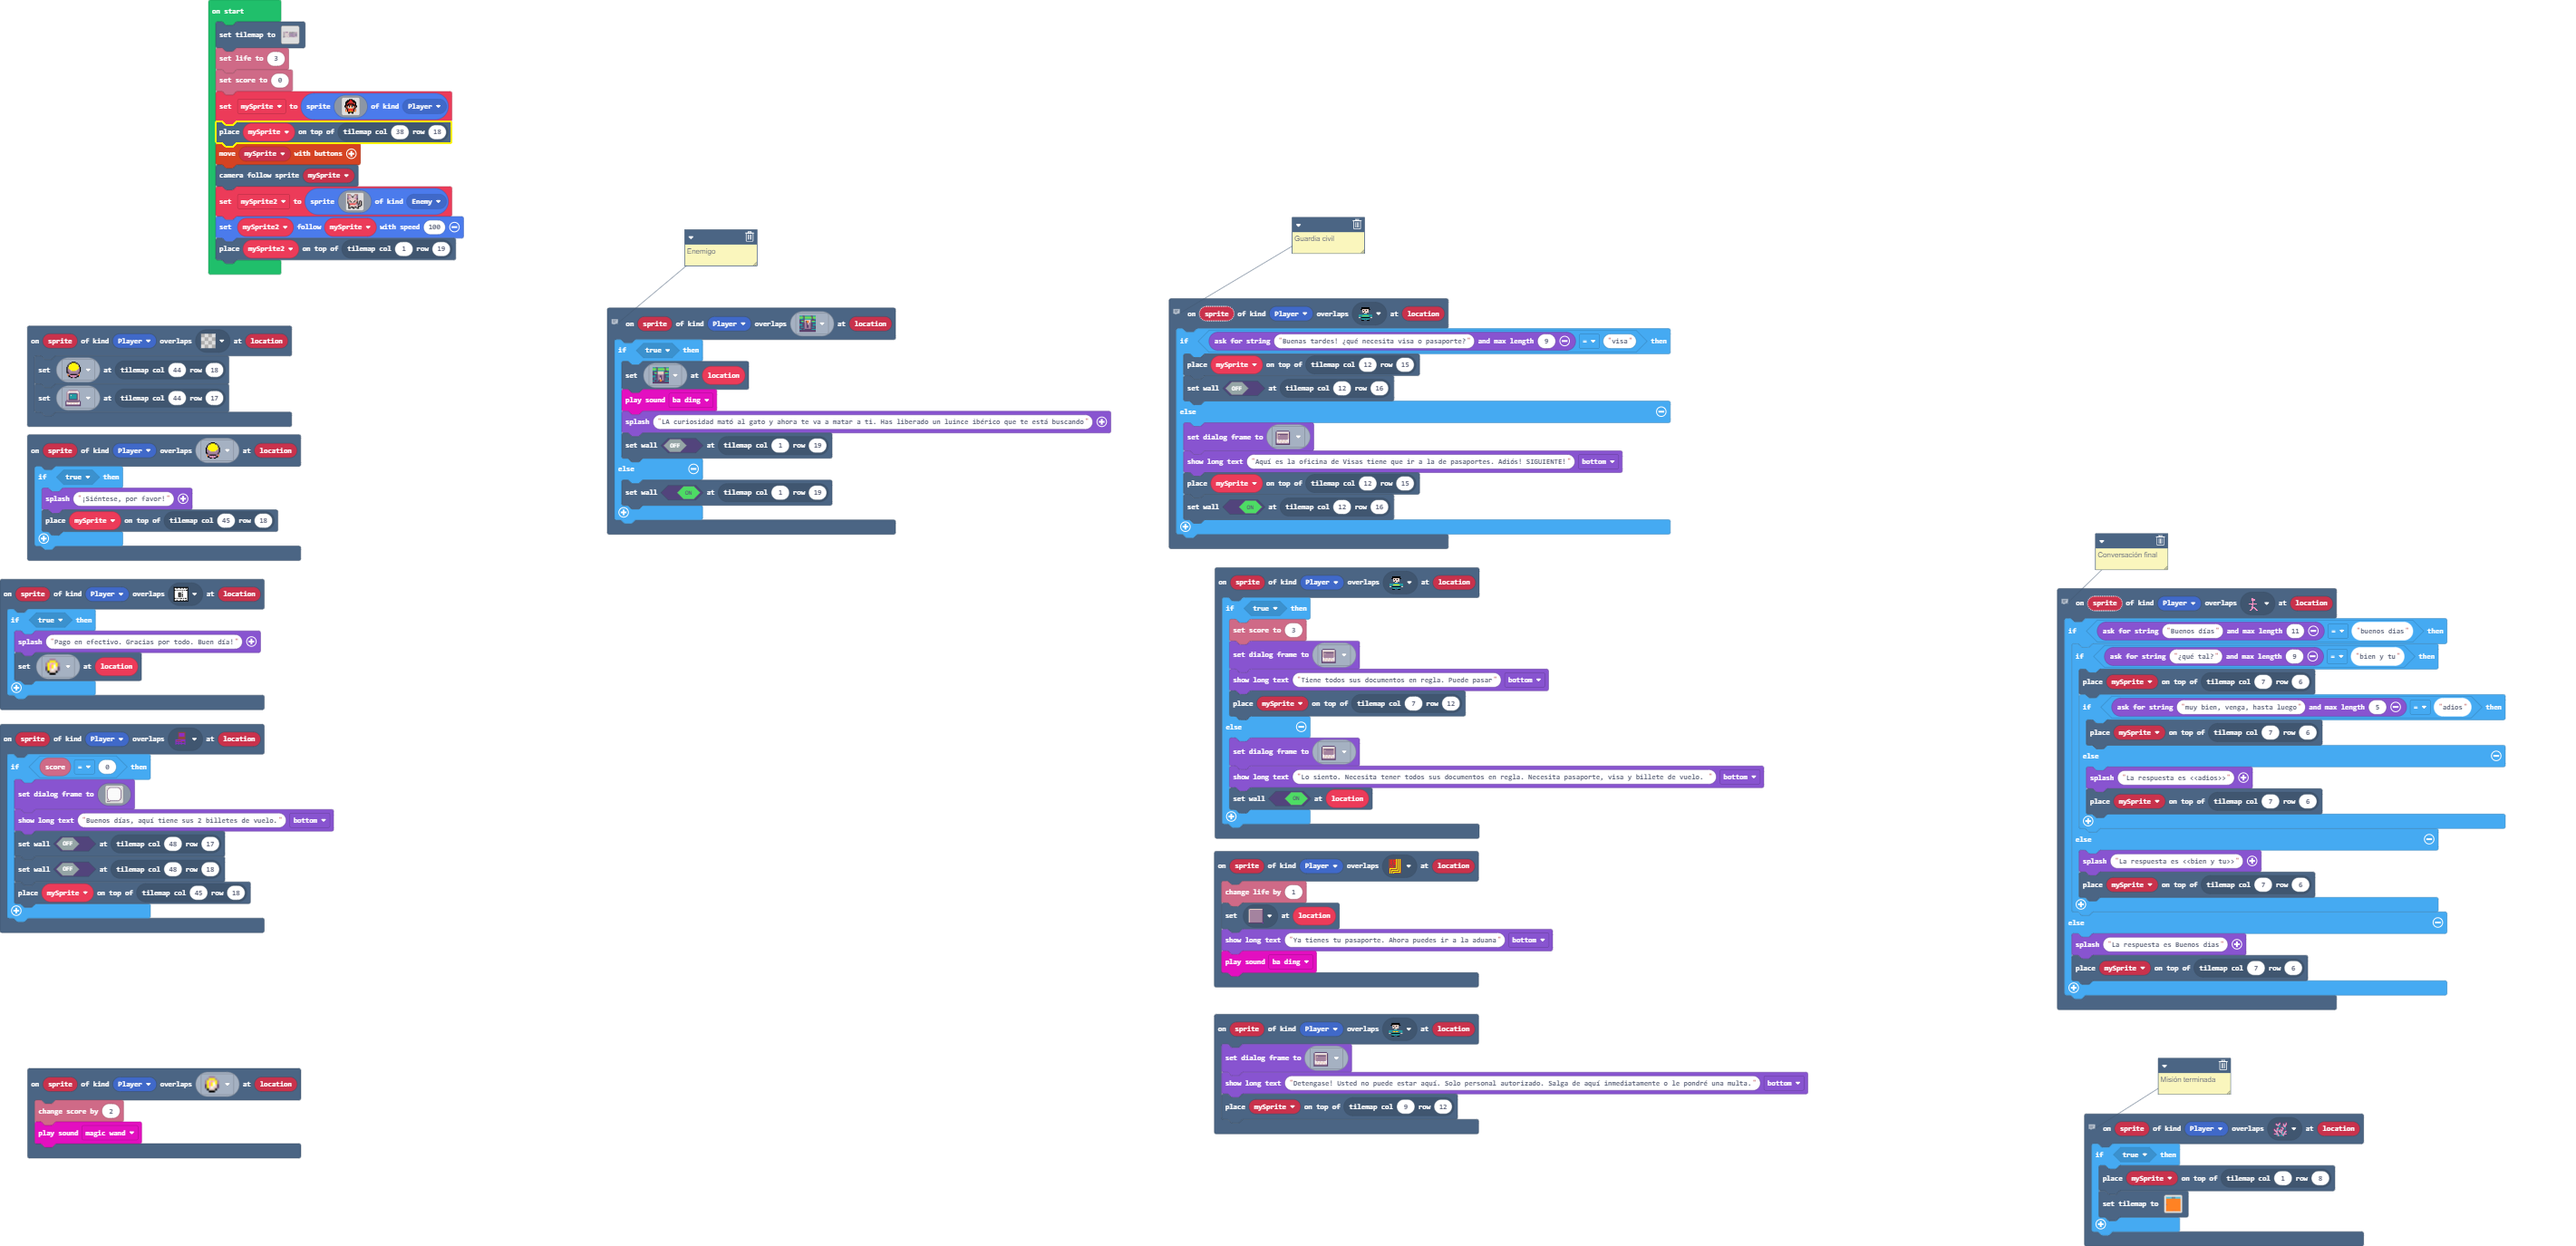
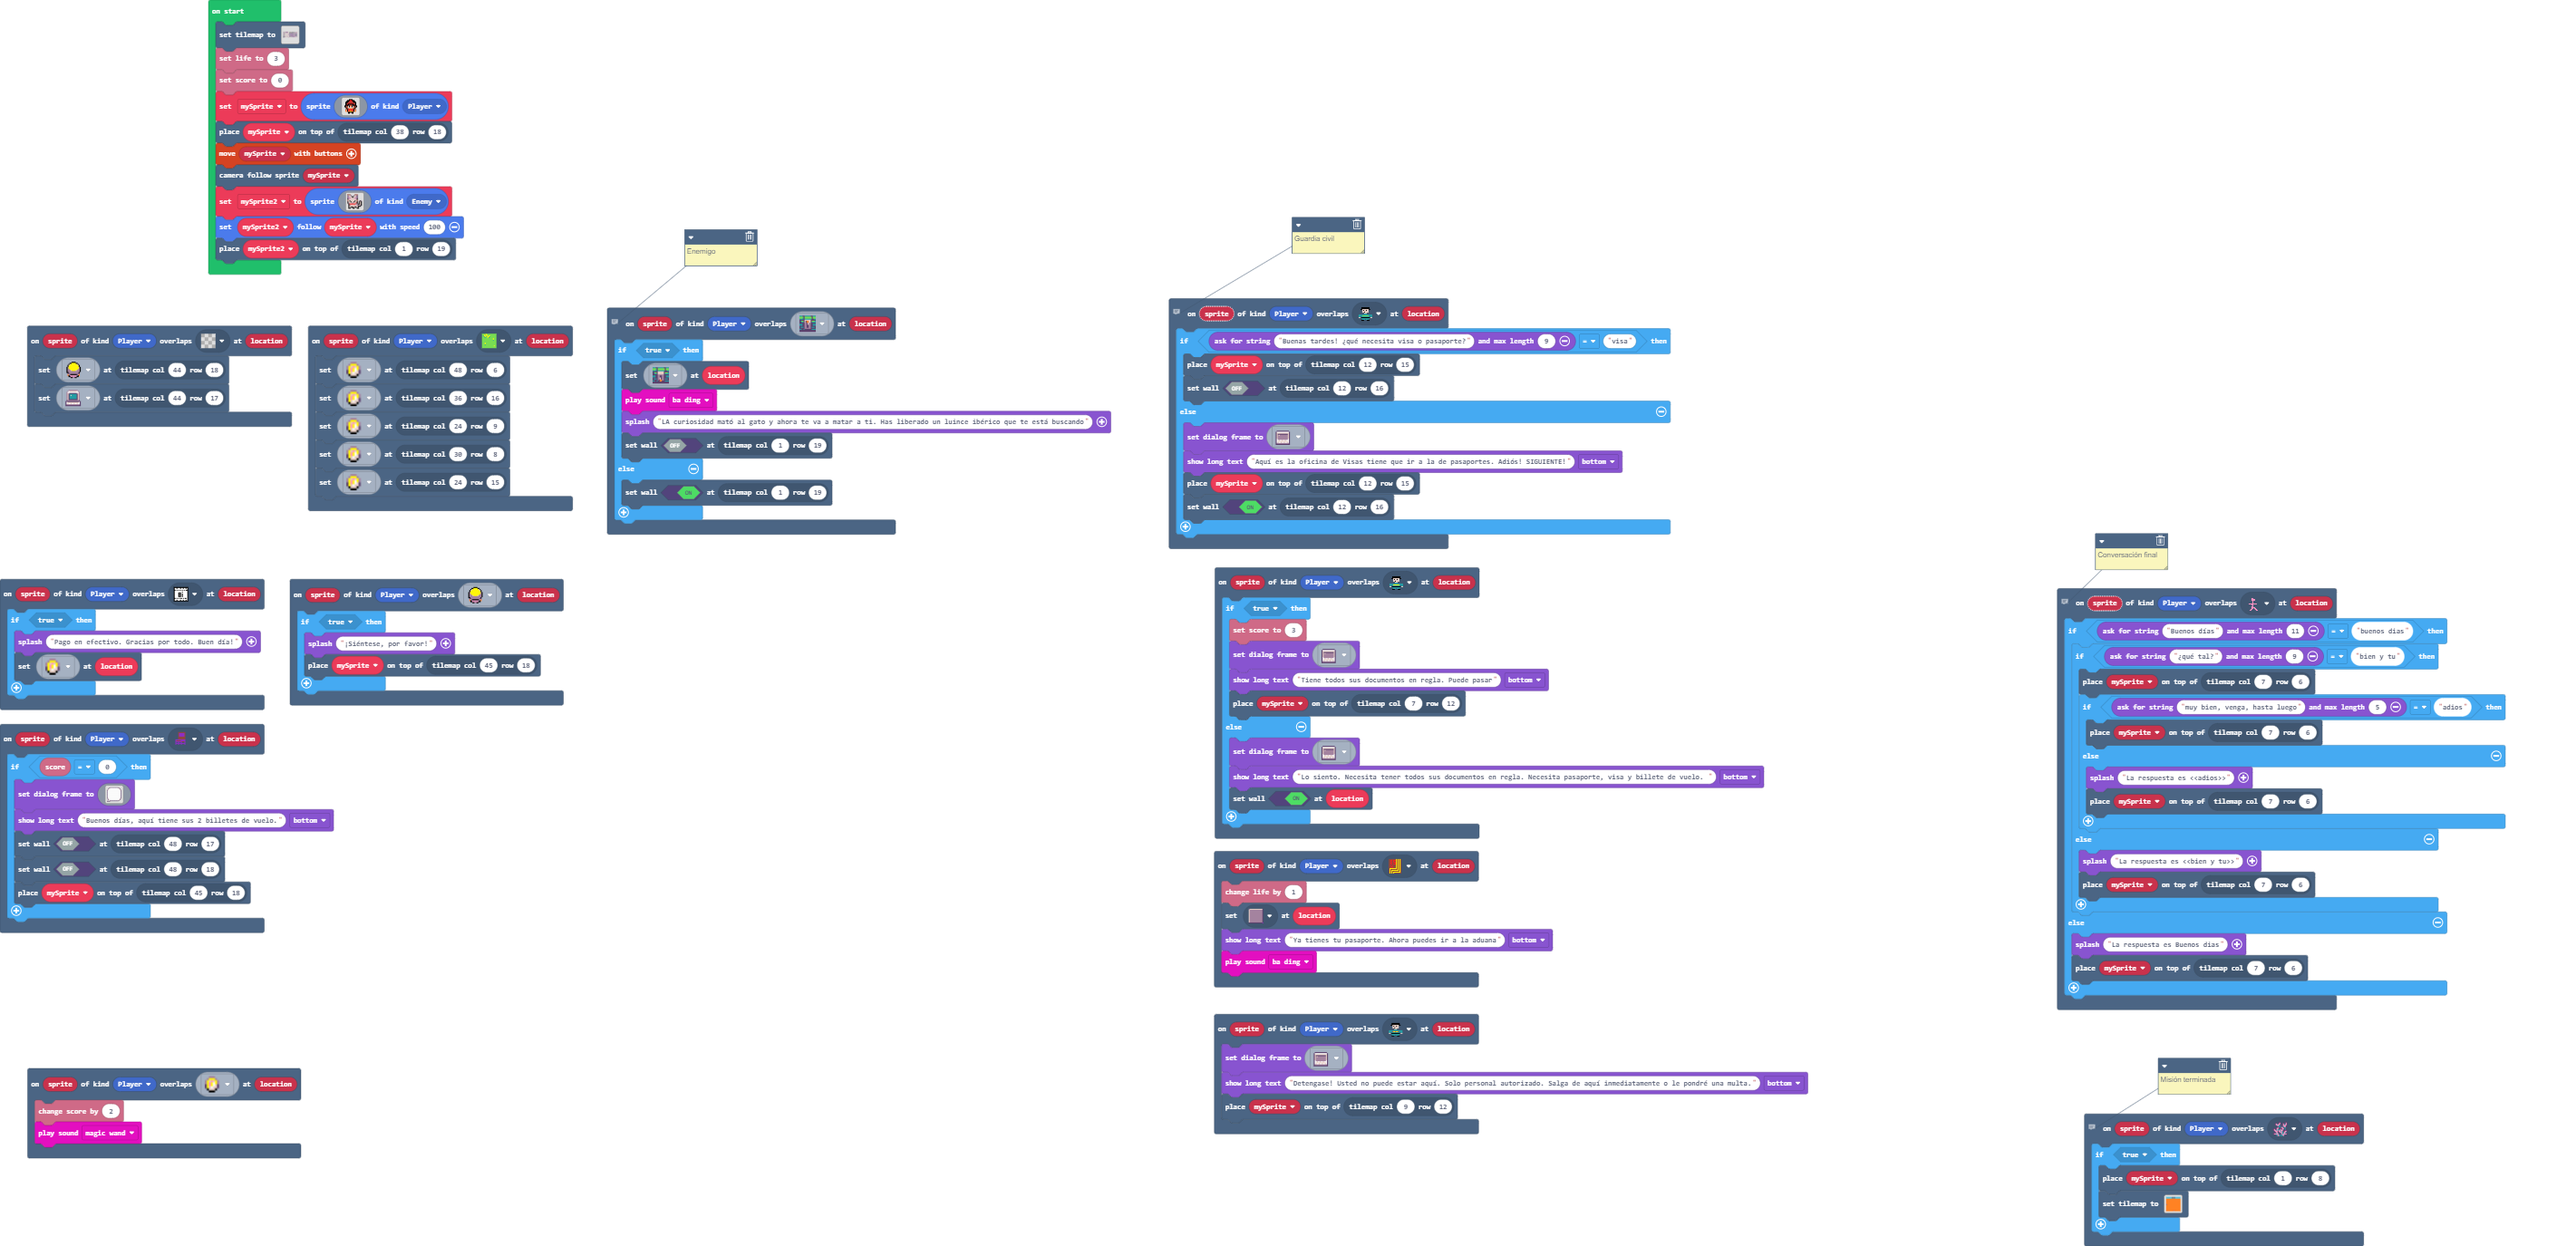
Update main.blocks, main.ts, tilemap.g.jres, tilemap.g.ts

Changed region(s): [[0.0, 0.2444, 0.2167, 0.5804]]

diff --git a/tilemap.g.ts b/tilemap.g.ts
@@ -43,24 +43,24 @@ namespace myTiles {
         switch(helpers.stringTrim(name)) {
[1 lines of base64/hex data omitted]
 2.2...2222222222.222222222222222222222222222222222
-2.....2222.......2..2............................2
-2...2.2222.......2..2............................2
-2..2..2222222.2222..2............................2
-2...2...............2............................2
-2.....222...........2............................2
+2.....2222.......2..2.22.2222.2222222222222......2
+2...2.2222.......2..2.22.2.22.2222222............2
+2..2..2222222.2222..2.22.2.22.22222..............2
+2...2...............2222.2.222222..2222..........2
+2.....222...........2.22.2.22.2..................2
 2..2..222...........2............................2
-2.....222...........2............................2
-2.....222...........2............................2
-2.2.2.222........................................2
-2.....222........................................2
-2..2................2............................2
-2.....222...........2............................2
-2.....222...........2............................2
-222222222...........2............................2
-22...2222...........2............................2
-22...2222222222222..2......................2222..2
-2222.2222........2..2......................22...22
-2..2.2222........2..2......................2....22
+2.....222...........2222.22..2222.22......22222222
+2.....222...........2..2..2..2..2.........22222222
+2.2.2.222..............2..2..2....2222...........2
+2.....222..............2222..2222.2..2...2.2222222
+2..2................2................2...2.......2
+2.....222...........222......2222.2222...2.2222222
+2.....222...........2..22222222..........2.......2
+222222222...........2..2...2....2........2.2222222
+22...2222...........2..2...2.2222.22.2...........2
+22...2222222222222..222222.2.......2.2....22222..2
+2222.2222........2..22.............2.2.22.222...22
+2..2.2222........2..2.2......22222.2......22....22
 2..2.............222222222222222222222222222222222
 `, [myTiles.transparency16,sprites.vehicle.roadVertical,sprites.vehicle.roadTurn3,sprites.vehicle.roadHorizontal,sprites.vehicle.roadTurn2,sprites.vehicle.roadTurn4,sprites.dungeon.floorDarkDiamond,myTiles.tile5,myTiles.tile7,myTiles.tile6,myTiles.tile2,myTiles.tile5,myTiles.tile6,myTiles.tile7,myTiles.tile10,sprites.dungeon.greenOuterNorthWest,sprites.dungeon.greenOuterNorth1,sprites.dungeon.greenOuterNorthEast,sprites.dungeon.greenOuterEast0,sprites.dungeon.greenOuterNorth2,sprites.dungeon.greenOuterWest1,sprites.dungeon.doorClosedEast,sprites.dungeon.stairLarge,sprites.dungeon.stairLadder,sprites.dungeon.purpleOuterSouthWest,sprites.dungeon.purpleOuterSouth1,sprites.dungeon.purpleOuterSouthEast,sprites.dungeon.purpleOuterWest1,sprites.dungeon.purpleOuterNorthWest,sprites.dungeon.purpleOuterNorth1,sprites.dungeon.purpleOuterEast0,sprites.dungeon.purpleOuterNorthEast,sprites.dungeon.stairNorth,sprites.dungeon.floorLight1,sprites.dungeon.darkGroundCenter,sprites.dungeon.floorLight0,sprites.vehicle.roadIntersection2,sprites.vehicle.roadIntersection4,sprites.vehicle.roadIntersection1,sprites.builtin.brick,myTiles.tile15,myTiles.tile4,myTiles.tile9,myTiles.tile12,sprites.vehicle.roadTurn1,sprites.dungeon.greenSwitchUp,sprites.dungeon.doorClosedSouth,sprites.dungeon.doorClosedNorth,sprites.dungeon.darkGroundSouthWest1,myTiles.tile3,sprites.dungeon.floorDark2,myTiles.tile8,sprites.dungeon.floorDark1,myTiles.tile16,myTiles.tile17,sprites.vehicle.roadIntersection3,sprites.castle.tileGrass1,sprites.builtin.forestTiles0,sprites.castle.saplingPine,sprites.castle.saplingOak,myTiles.tile18], TileScale.Sixteen)
             case "level_0": return tiles.createTilemap(hex`1000100003030303030304040404030303030303030303030303040404040303030303030101010101010101010101010101010101010101010101010101010101010101010101010101010101010101010101010101010101010101010101010101010101010101010101010101010101010101010101010101010101010101010101010101010101010101010101010101010101010101010101010101010101010101010101010101010101010101010101010101010101010101010101010101010101010101010101010101010101010101010101010101010101010101010101010101010101010505050505010101010101010101010105050205050101010101`, img`

diff --git a/main.ts b/main.ts
@@ -105,6 +105,13 @@ scene.onOverlapTile(SpriteKind.Player, sprites.builtin.coral0, function (sprite,
         tiles.setTilemap(tilemap`level_2`)
     }
 })
+scene.onOverlapTile(SpriteKind.Player, sprites.castle.tileGrass1, function (sprite, location) {
+    tiles.setTileAt(tiles.getTileLocation(48, 6), sprites.builtin.coin1)
+    tiles.setTileAt(tiles.getTileLocation(36, 16), sprites.builtin.coin1)
+    tiles.setTileAt(tiles.getTileLocation(24, 9), sprites.builtin.coin1)
+    tiles.setTileAt(tiles.getTileLocation(30, 8), sprites.builtin.coin1)
+    tiles.setTileAt(tiles.getTileLocation(24, 15), sprites.builtin.coin1)
+})
 // Conversación final
 scene.onOverlapTile(SpriteKind.Player, myTiles.tile1, function (sprite, location) {
     if (game.askForString("Buenos días", 11) == "buenos dias") {
